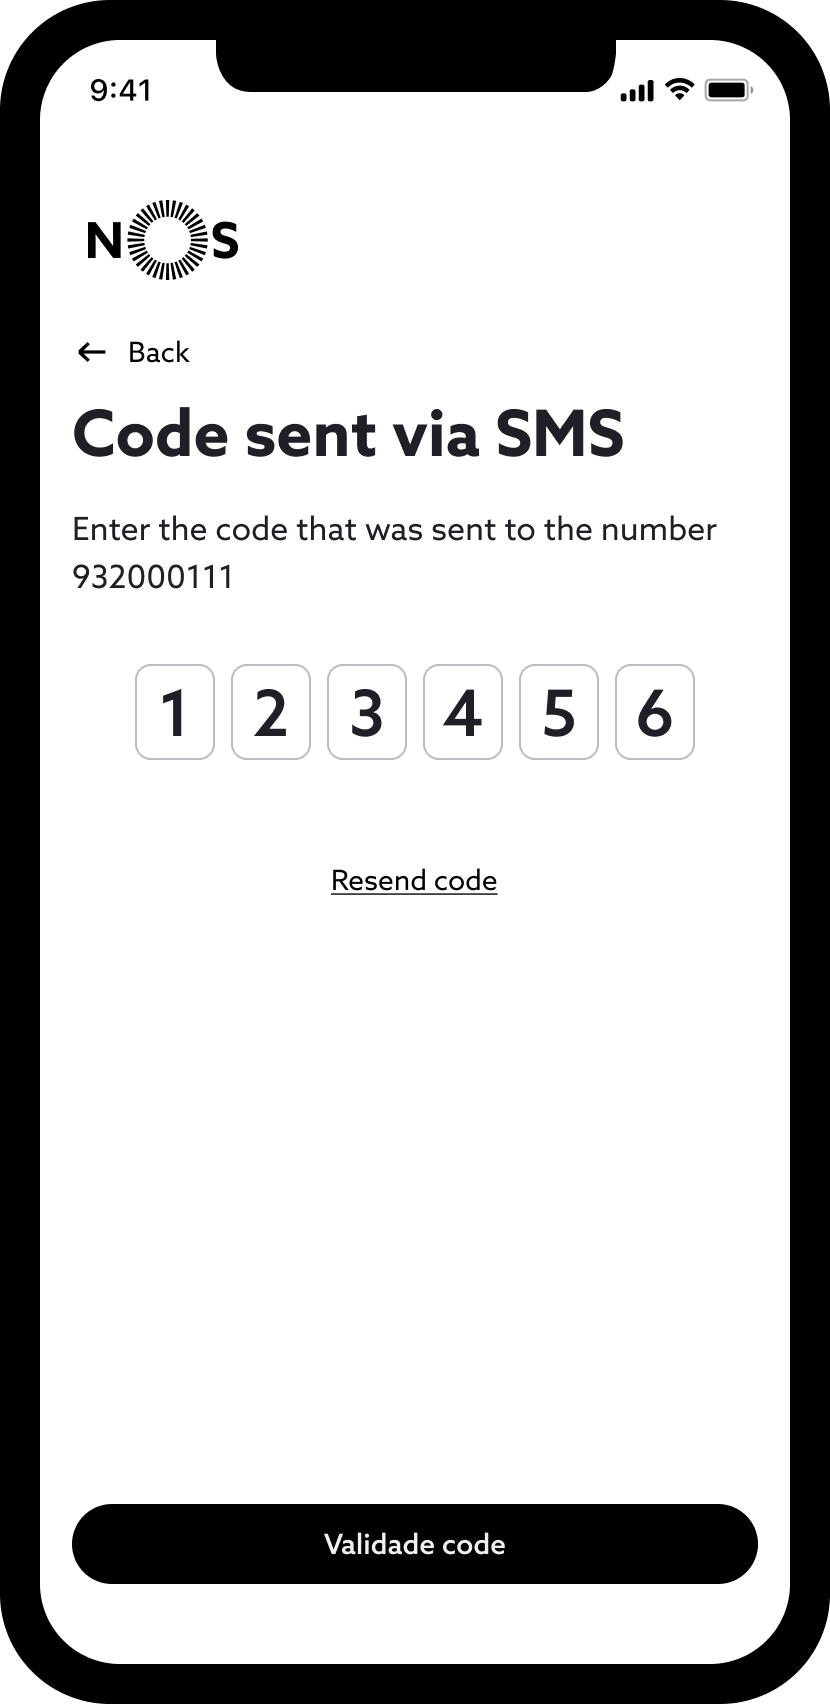
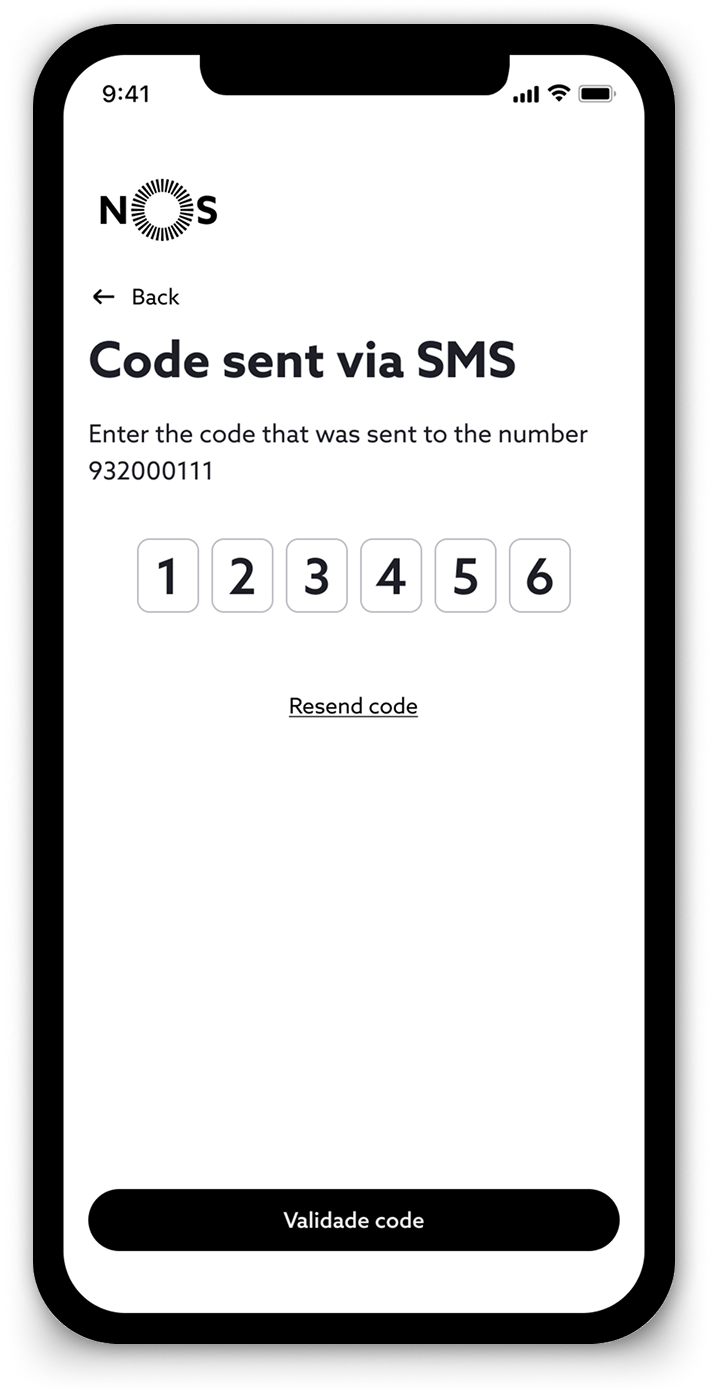
Enhance signup flow with detailed steps and visuals, update descriptions, and replace social login with passkey authentication.

diff --git a/nosid.html b/nosid.html
@@ -296,10 +296,10 @@
             <div class="auth-method__detail">Email + password</div>
           </div>
           <div class="auth-method reveal reveal-delay-2">
-            <div class="auth-method__badge">Social</div>
-            <h3 class="auth-method__title">Social Login</h3>
-            <p class="auth-method__desc">One-tap authentication through trusted third-party accounts — the fastest entry point for users already signed into supported platforms.</p>
-            <div class="auth-method__detail">Apple · Google · Facebook</div>
+            <div class="auth-method__badge">Comming soon...</div>
+            <h3 class="auth-method__title">Passkey</h3>
+            <p class="auth-method__desc">Device-based authentication using biometrics or screen lock. No password required, phishing-resistant, and designed for both security and seamless access.</p>
+            <div class="auth-method__detail">Biometrics</div>
           </div>
         </div>
       </div>
@@ -319,53 +319,64 @@
           <p>The original flow required users to validate both their email address <em>and</em> phone number before completing signup. Analytics showed this was a primary drop-off point — and a technical crash when users left the app to open their email client compounded the problem. The new flow removes email validation from the critical path entirely: users go start to finish using SMS only. Email can be verified later, at a lower-stakes moment.</p>
         </div>
 
-        <div class="signup-flow" role="list" aria-label="Signup flow steps">
-          <div class="flow-step reveal" role="listitem">
-            <div class="flow-step__num" aria-hidden="true">1</div>
-            <div class="flow-step__content">
-              <h3>Provide details</h3>
-              <p>Name and phone number only — no unnecessary fields upfront.</p>
-            </div>
-          </div>
-          <div class="flow-connector" aria-hidden="true"></div>
-          <div class="flow-step reveal reveal-delay-2" role="listitem">
-            <div class="flow-step__num" aria-hidden="true">2</div>
-            <div class="flow-step__content">
-              <h3>Enter SMS Code</h3>
-              <p>Auto-focused input with auto-fill. No app-switching required.</p>
-            </div>
-          </div>
-          <div class="flow-connector" aria-hidden="true"></div>
-          <div class="flow-step reveal reveal-delay-3" role="listitem">
-            <div class="flow-step__num" aria-hidden="true">3</div>
-            <div class="flow-step__content">
-              <h3>Set Password</h3>
-              <p>With clear guidance on password requirements.</p>
-            </div>
-          </div>
-          <div class="flow-connector" aria-hidden="true"></div>
-          <div class="flow-step reveal reveal-delay-3" role="listitem">
-            <div class="flow-step__num" aria-hidden="true">4</div>
-            <div class="flow-step__content">
-              <h3>Success</h3>
-              <p>Confirmation with immediate routing to the originating product.</p>
-            </div>
-          </div>
-        </div>
+        <!-- Signup flow breakdown -->
+        <div class="signup-breakdown">
 
-        <div class="flow-screens" aria-label="Screen examples">
-          <div class="flow-screen-placeholder" aria-label="Signup step 1">
-            <img src="assets/nosid/signup/Step_1.png" alt="Signup step 1">
+          <div class="signup-step reveal">
+            <div class="signup-step__text">
+              <div class="signup-step__num" aria-hidden="true">1</div>
+              <h3 class="signup-step__title">Provide details</h3>
+              <p class="signup-step__desc">We start with just the essentials—name and phone number—to reduce friction. Email is intentionally deferred, allowing users to complete signup without switching contexts, a common pain point in webview-based flows.</p>
+            </div>
+            <div class="signup-step__visual">
+              <img src="assets/nosid/signup/Step_1.png" alt="Signup step 1: provide name and phone number" loading="lazy" />
+            </div>
           </div>
-          <div class="flow-screen-placeholder" aria-label="Signup step 2">
-            <img src="assets/nosid/signup/Step_2.png" alt="Signup step 2">
+
+          <div class="signup-step signup-step--reverse reveal">
+            <div class="signup-step__text">
+              <div class="signup-step__num" aria-hidden="true">2</div>
+              <h3 class="signup-step__title">Validate phone number</h3>
+              <p class="signup-step__desc">Fast and seamless verification. The code input is auto-focused and, on mobile, auto-filled from the SMS—removing the need to switch apps or manually copy the code, helping reduce drop-off during verification.</p>
+            </div>
+            <div class="signup-step__visual">
+              <img src="assets/nosid/signup/Step_2.png" alt="Signup step 2: SMS verification code entry" loading="lazy" />
+            </div>
           </div>
-          <div class="flow-screen-placeholder" aria-label="Signup step 3">
-            <img src="assets/nosid/signup/Step_3.png" alt="Signup step 3">
+
+          <div class="signup-step reveal">
+            <div class="signup-step__text">
+              <div class="signup-step__num" aria-hidden="true">3</div>
+              <h3 class="signup-step__title">Set up password</h3>
+              <p class="signup-step__desc">Guided password creation with real-time feedback. Requirements are visible upfront and update as the user types, reducing guesswork and preventing errors before submission.</p>
+            </div>
+            <div class="signup-step__visual">
+              <img src="assets/nosid/signup/Step_3.png" alt="Signup step 3: password creation with live requirements" loading="lazy" />
+            </div>
           </div>
-          <div class="flow-screen-placeholder" aria-label="Signup step 4">
-            <img src="assets/nosid/signup/Step_4.png" alt="Signup step 4">
+
+          <div class="signup-step signup-step--reverse reveal">
+            <div class="signup-step__text">
+              <div class="signup-step__num" aria-hidden="true">4</div>
+              <h3 class="signup-step__title">Signup completed</h3>
+              <p class="signup-step__desc">Clear confirmation with immediate continuation. Users are seamlessly routed back to the app, maintaining momentum without unnecessary steps.</p>
+            </div>
+            <div class="signup-step__visual">
+              <img src="assets/nosid/signup/Step_4.png" alt="Signup step 4: success confirmation screen" loading="lazy" />
+            </div>
           </div>
+
+          <div class="signup-step reveal">
+            <div class="signup-step__text">
+              <div class="signup-step__num" aria-hidden="true">5</div>
+              <h3 class="signup-step__title">Email requested later</h3>
+              <p class="signup-step__desc">Email collection is intentionally delayed to reduce initial friction. After users engage with the app and return, they're more likely to provide it — supporting higher completion rates while still meeting business and security needs, including mitigating user enumeration risks.</p>
+            </div>
+            <div class="signup-step__visual">
+              <img src="assets/nosid/signup/Step_5.png" alt="Signup step 5: deferred email collection prompt" loading="lazy" />
+            </div>
+          </div>
+
         </div>
       </div>
     </section>

diff --git a/css/project.css b/css/project.css
@@ -712,6 +712,93 @@ body.project-page section + section {
   max-height: 380px;
 }
 
+/* ─── SIGNUP FLOW BREAKDOWN ─── */
+.signup-breakdown {
+  display: flex;
+  flex-direction: column;
+  gap: clamp(56px, 8vw, 96px);
+  margin-top: calc(var(--space) * 10);
+}
+
+.signup-step {
+  display: grid;
+  grid-template-columns: 1fr 1fr;
+  gap: calc(var(--space) * 10);
+  align-items: center;
+}
+
+.signup-step--reverse .signup-step__text { order: 2; }
+.signup-step--reverse .signup-step__visual { order: 1; }
+
+.signup-step__num {
+  width: 48px;
+  height: 48px;
+  border-radius: 50%;
+  background: var(--col-accent);
+  color: #fff;
+  display: flex;
+  align-items: center;
+  justify-content: center;
+  font-size: 1.1rem;
+  font-weight: 700;
+  margin-bottom: calc(var(--space) * 4);
+  flex-shrink: 0;
+}
+
+.signup-step__title {
+  font-family: var(--font-display);
+  font-size: clamp(1.1rem, 1.6vw, 1.35rem);
+  line-height: 1.25;
+  margin-bottom: calc(var(--space) * 3);
+}
+
+.signup-step__desc {
+  font-size: var(--body-sm);
+  color: var(--col-ink-muted);
+  line-height: 1.8;
+  max-width: 52ch;
+}
+
+.signup-step__visual {
+  display: flex;
+  align-items: center;
+  justify-content: center;
+  background: var(--col-card-bg);
+  border: 1px solid var(--col-border);
+  border-radius: 12px;
+  padding: clamp(32px, 5vw, 64px) 24px;
+  min-height: 380px;
+}
+
+.signup-step__visual img {
+  width: auto;
+  max-width: 280px;
+  height: auto;
+  max-height: 560px;
+  object-fit: contain;
+  border-radius: 20px;
+}
+
+@media (max-width: 768px) {
+  .signup-step {
+    grid-template-columns: 1fr;
+    gap: calc(var(--space) * 6);
+  }
+
+  .signup-step--reverse .signup-step__text { order: 1; }
+  .signup-step--reverse .signup-step__visual { order: 2; }
+
+  .signup-step__visual {
+    min-height: 280px;
+    padding: calc(var(--space) * 6) calc(var(--space) * 4);
+  }
+
+  .signup-step__visual img {
+    max-width: 160px;
+    max-height: 320px;
+  }
+}
+
 /* ─── SECURITY UX ─── */
 .proj-section--security {
   background: var(--col-ink);
